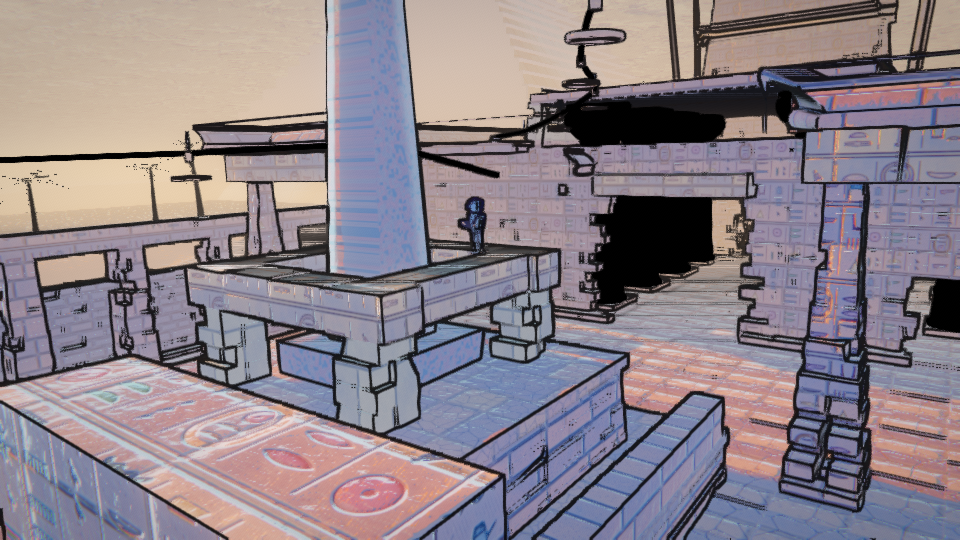
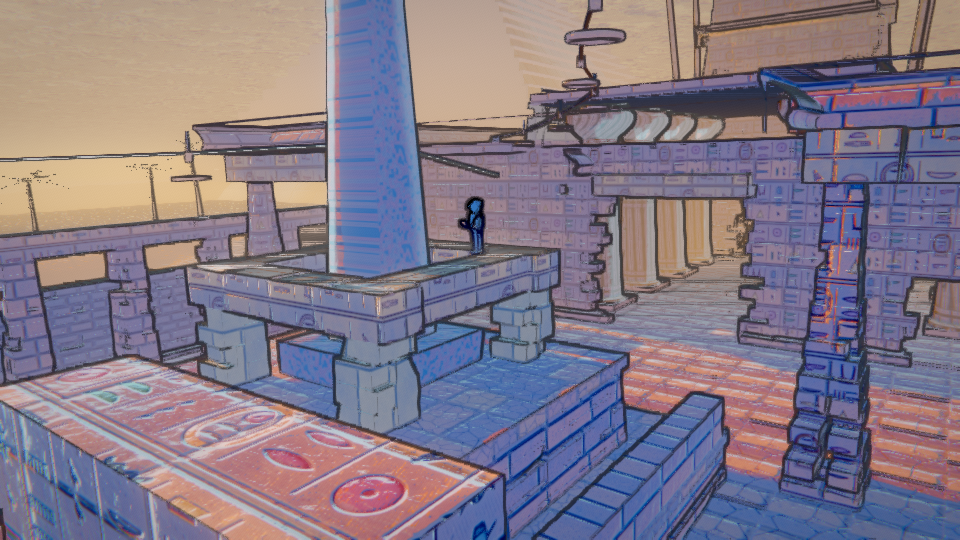
Correct a double-compensated exposure and soften the ink lines
I had raised exposure to 1.45 to fight a dark frame, then fixed the actual
cause - the AO feedback loop - in the same commit. Two corrections for one
symptom, so the stone blew out to white and AgX desaturated that into the pale
lavender cast. Exposure back to 0.95, saturation raised to counter AgX.

Ink lines: a normal step alone still fired on every masonry joint in a flat
wall. Creases now require the normal fold to be corroborated by at least a hint
of a depth step, so lines mark real folds in the form and leave block joints to
the texture, which already draws them. Overall ink strength reduced.

Narrowing recorded for whoever continues: the residual cool cast is not the
textures (verified warm - sandstone_block averages #a4774c), not the light
values (LIGHTING publishes a 3.30 intensity #ffd9a0 key from the west), and not
the grade. That leaves the fill/rim terms in the cel-shading model.

Claude-Session: https://claude.ai/code/session_01PXtatFVa9WWnKz5zHerfeC

diff --git a/src/render/PostFX.js b/src/render/PostFX.js
@@ -33,10 +33,13 @@ const TUNE = {
   bloomMips: 6,
 
   /* --- grade --- */
-  exposure: 1.45,                  // the scene renders dark; lift before the tonemap toe
-  contrast: 1.04,
-  saturation: 1.16,
-  lift: [0.012, 0.010, 0.020],     // open the toe so shadows keep readable detail (§7.3)
+  // Was lifted to 1.45 to fight darkness that turned out to be the AO feedback bug below.
+  // With that fixed the lift became a double correction and blew the stone out to white,
+  // which is what AgX then desaturated into pale lavender.
+  exposure: 0.95,
+  contrast: 1.08,
+  saturation: 1.30,                // AgX desaturates hard; the sandstone has to be pushed back
+  lift: [0.006, 0.004, 0.010],     // open the toe just enough to keep shadow detail (§7.3)
   gain: [1.04, 1.0, 0.95],         // warm the highlights
   splitShadow: 0x2a3f66,           // §2.2 shadow hue
   splitHighlight: 0xffd9a0,        // §2.2 sun
@@ -92,7 +95,12 @@ void main() {
   // a 60-degree fold; below that the shading already separates the surfaces.
   float normalLine = smoothstep( 0.55, 0.55 + ( 1.0 - uParams.y ) * 0.75, nEdge );
 
-  float line = max( depthLine, normalLine );
+  // A normal step alone still fires on every masonry joint in a flat wall, which inked the
+  // architecture into a circuit board. Require the normal fold to be corroborated by at
+  // least a hint of depth step, so creases mark real folds in the form while the block
+  // joints are left to the texture, which already draws them.
+  float corroborate = smoothstep( 0.004, 0.020, dEdge );
+  float line = max( depthLine, normalLine * corroborate );
   // Thin the lines out with distance rather than cutting them, or the transition pops.
   line *= 1.0 - smoothstep( uFade.x, uFade.y, z0 );
 
@@ -247,7 +255,7 @@ void main() {
     line *= smoothstep( 0.06, 0.22, lum );
     // Warm ink where the surface is lit, violet ink where it's in shadow (§2.1).
     vec3 ink = mix( uInkCool, uInkWarm, smoothstep( 0.12, 0.55, lum ) );
-    c = mix( c, ink, clamp( line, 0.0, 1.0 ) * 0.85 );
+    c = mix( c, ink, clamp( line, 0.0, 1.0 ) * 0.60 );
   }
 
   /* ---- finishing ---- */
